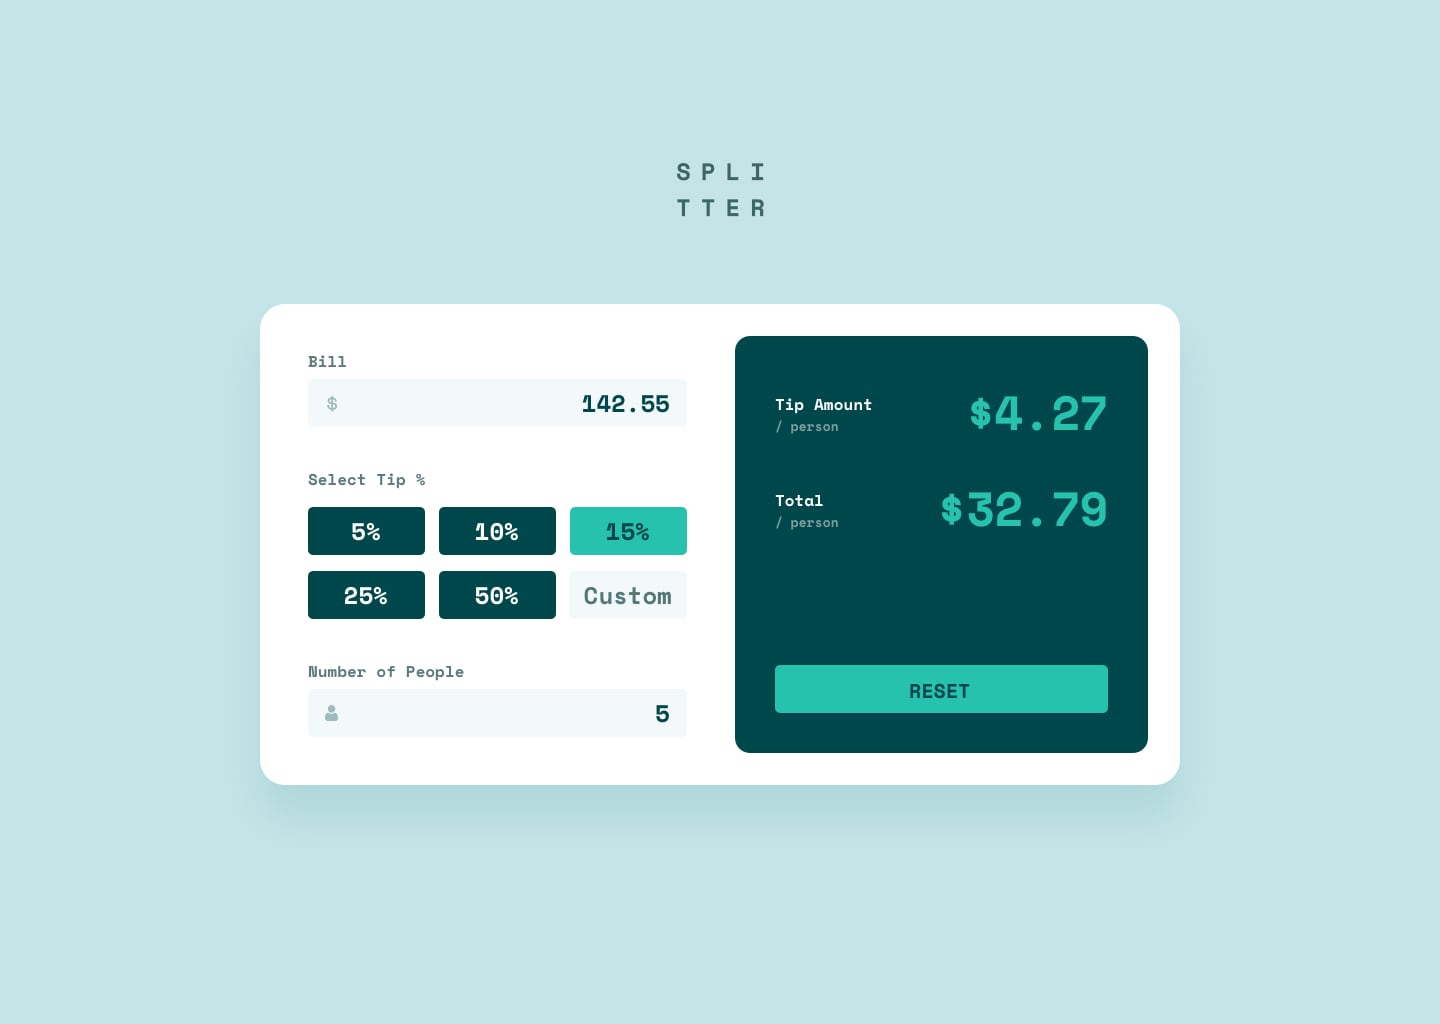
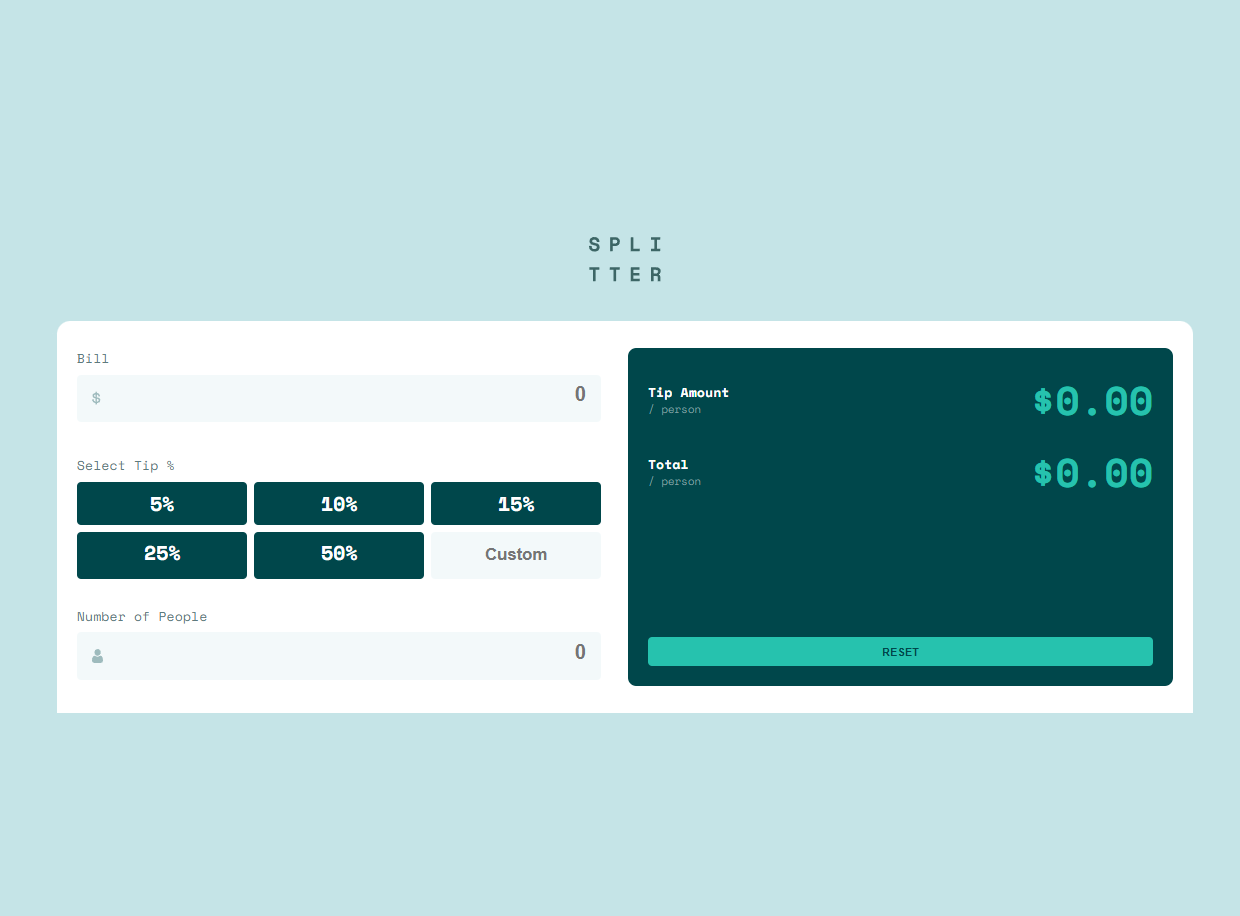
final submit

Changed region(s): [[0.0306, 0.2445, 0.9806, 0.7948], [0.6435, 0.4585, 0.7661, 0.5197], [0.4597, 0.1528, 0.5516, 0.214]]

diff --git a/script.js b/script.js
@@ -50,6 +50,8 @@ const calcOutputs = () => {
     // the inputs
     const billInput = document.querySelector("#bill");
     const peopleInput = document.querySelector("#people");
+    const customInput = document.querySelector("#custom");
+
 
     // the outputs
     const tipAmount = document.querySelector("#tip-amount");
@@ -61,6 +63,9 @@ const calcOutputs = () => {
     // grabbing the values of the inpputs
     const billVal = Number(billInput.value);
     const tipOption = document.querySelectorAll("input[name='tip']");
+    const radio = document.querySelectorAll("input[name='radio]");
+
+
     let tipVal = 1;
     tipOption.forEach((val) => {
         if (val.checked) {
@@ -73,6 +78,18 @@ const calcOutputs = () => {
     })
     const peopleVal = Number(peopleInput.value);
 
+    customInput.addEventListener('focus', () => {
+        document.querySelectorAll('input[type="radio"]').forEach(check => check.checked = false);
+    })
+
+    radio.forEach(r => {
+        r.addEventListener('change', () => {
+            if (r.checked) {
+                document.querySelector("#custom").placeholder = 'Custom';
+            }
+        })
+    })
+
     totBill = calculateTip(billVal, tipVal, peopleVal);
     totAmount = calculateTotal(billVal, tipVal, peopleVal);
 
@@ -84,42 +101,41 @@ const calcOutputs = () => {
 
 }
 
-// calcOutputs()
 const inputs = document.querySelectorAll("input");
 inputs.forEach((input) => {
-    input.addEventListener("blur", calcOutputs)
+    input.addEventListener("blur", calcOutputs);
 })
-
-
 
 // events
 
+peopleInput.addEventListener('blur', () => {
+    const error = document.querySelector("#error");
+    console.log(peopleInput.value)
+    if (Number(peopleInput.value) === 0) {
+        error.textContent = "Can't be zero";
+        reset.disabled = true;
+    } else {
+        error.textContent = " ";
+        reset.disabled = false;
+
+    }
+
+})
 
 
 form.addEventListener("submit", (e) => {
     let isValid = true;
 
     const reset = document.querySelector("#reset");
-    const peopleInput = document.querySelector("#people");
-    const err = form.querySelector("#error")
-
-
-    if (peopleInput.value === 0) {
-        err.textContent = "Can't be zero";
-        e.preventDefault();
-
-    } else {
-        err.textContent = " ";
-
-    }
 
     const inputs = form.querySelectorAll('input[type=text]');
     console.log(inputs)
     inputs.forEach((input) => {
         if (!validateField(input)) {
-            rendorError(input)
+            rendorError(input);
             isValid = false;
         }
+        clearError(input)
     })
 
     if (isValid) {

diff --git a/style.css b/style.css
@@ -70,7 +70,6 @@ header {
     gap: 32px;
     max-width: 90rem;
     min-width: 15.6rem;
-
     margin: 0 auto;
 }
 
@@ -173,11 +172,13 @@ fieldset legend {
 
 .number span {
     position: absolute;
+    display: inline-block;
     right: 0;
     margin-right: 32px;
     color: var(--error);
-
 }
+
+
 
 .number {
     position: relative;
@@ -329,9 +330,28 @@ input[type='radio'] {
     width: 100%;
 }
 
+.reset:disabled {
+    cursor: default;
+    color: var(--gn-800);
+    background-color: var(--gn-750);
+    border: 3px solid var(--gn-750);
+}
+
+.reset:hover {
+    cursor: pointer;
+    color: var(--gn-900);
+    background-color: var(--gn-200);
+    border: 3px solid var(--gn-200);
+}
+
 
 
 @media(min-width: 768px) {
+
+    main {
+        width: 100vw;
+    }
+
     .wrapper {
         flex-direction: row;
         border: 1rem;

diff --git a/index.html b/index.html
@@ -73,7 +73,7 @@
                 </p>
               </div>
               <h2 id="tip-amount" value="$0.00">
-
+                $0.00
               </h2>
             </div>
             <div class="total-amount">
@@ -86,7 +86,7 @@
                 </p>
               </div>
               <h2 id="total-amount" placeholder="$0.00">
-
+                $0.00
               </h2>
             </div>
           </div>

diff --git a/README.md b/README.md
@@ -59,7 +59,9 @@ I am scraping everything I have done and lookig at a new approach but still I do
 
 Still having trouble with the error states and what not but I just enjoyed working with numbers, let me think where I can put my output function.
 
+Just got my calculations function to work. Everything was working fine on the console but did not work on on the DOM. I started over and tried another method but it broke more so I reverted back. Then I replaced my if sstatement with a ternary and guess what?!
 
+IT WORKS!
 ### Built with
 
 - Semantic HTML5 markup
